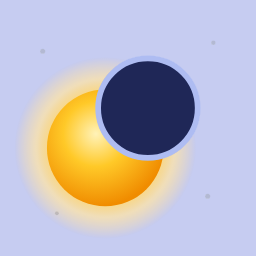
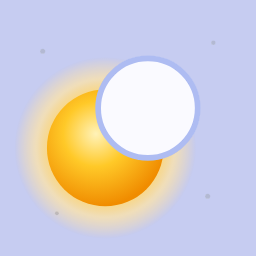
Eclipse: cores das regiões no tema claro com mais contraste (matizes bem separados, luminosidades alternadas); lua clara no ícone do tema claro
Claude-Session: https://claude.ai/code/session_01VuAEu1YUHS9jy2dRVeSzM2

Changed region(s): [[0.375, 0.2188, 0.7812, 0.625]]

diff --git a/eclipse/index.html b/eclipse/index.html
@@ -10,8 +10,8 @@
 <meta name="apple-mobile-web-app-title" content="Eclipse">
 <title>ECLIPSE — um sol e uma lua em cada linha</title>
 <link rel="icon" type="image/png" href="icon.png">
-<script src="../comum/tema.js?v=80"></script>
-<script src="../comum/cabecalho.js?v=80"></script>
+<script src="../comum/tema.js?v=81"></script>
+<script src="../comum/cabecalho.js?v=81"></script>
 <link rel="apple-touch-icon" href="icon.png">
 <link rel="preconnect" href="https://fonts.googleapis.com">
 <link rel="preconnect" href="https://fonts.gstatic.com" crossorigin>
@@ -38,8 +38,9 @@
     --bad: #e5484d;
     --accent: #4f4fd0;
     --good: #3fa24c;
-    --r0: #f6c1b9; --r1: #f9dd8f; --r2: #c6e5aa; --r3: #b2d2f5; --r4: #d4c5f6;
-    --r5: #f4c2de; --r6: #a9e4cd; --r7: #f7cca2; --r8: #dce0ea; --r9: #e8d7ae;
+    /* regiões (claro): matizes bem separados e luminosidades alternadas, para vizinhas nunca se confundirem */
+    --r0: #f3a097; --r1: #f7dc74; --r2: #b0da83; --r3: #8fc1f0; --r4: #c4aef6;
+    --r5: #f5b4d8; --r6: #7fd4c1; --r7: #f8b37a; --r8: #cfd3de; --r9: #cbc27e;
     --shadow: 0 1px 2px rgba(20,24,40,.06), 0 6px 18px rgba(20,24,40,.07);
     --on-accent: #fff;
   }
@@ -275,7 +276,7 @@
   }
 
 </style>
-<link rel="stylesheet" href="../comum/cabecalho.css?v=80">
+<link rel="stylesheet" href="../comum/cabecalho.css?v=81">
 <style>
   /* cores do cabeçalho comum, a partir das cores deste jogo */
   :root { --fim-btn-bg: var(--accent); --fim-btn-ink: var(--on-accent); --mpad: 22px; --gh-ink: var(--ink); --gh-muted: var(--muted); --gh-surface: var(--surface); --gh-track: var(--surface-2); --gh-accent: var(--accent); --gh-line: var(--line); }
@@ -314,7 +315,7 @@
 
 <header class="gh">
   <a class="gh-back" href="../" aria-label="Voltar aos Jogos do Dia" title="Jogos do Dia"><svg viewBox="0 0 24 24" width="22" height="22" fill="none" stroke="currentColor" stroke-width="2.6" stroke-linecap="round" stroke-linejoin="round" aria-hidden="true"><path d="M15 5l-7 7 7 7"/></svg></a>
-  <a class="gh-brand" href="./" aria-label="Eclipse — recarregar"><img src="icon-claro.png?v=10" data-escuro="icon-escuro.png?v=10" alt=""><b>ECLIPSE</b></a>
+  <a class="gh-brand" href="./" aria-label="Eclipse — recarregar"><img src="icon-claro.png?v=11" data-escuro="icon-escuro.png?v=10" alt=""><b>ECLIPSE</b></a>
   <div class="gh-pill" id="timer" aria-label="Tempo">0:00</div>
   <button class="gh-btn" id="helpBtn" aria-label="Como jogar" title="Como jogar"><svg viewBox="0 0 24 24" aria-hidden="true" fill="none" stroke="currentColor" stroke-width="2.4" stroke-linecap="round" stroke-linejoin="round"><circle cx="12" cy="12" r="9"/><path d="M9.3 9.3a2.8 2.8 0 0 1 5.4 1c0 1.9-2.7 2.5-2.7 4"/><path d="M12 17.6h.01"/></svg></button>
 </header>
@@ -879,7 +880,7 @@
   $("helpBtn").addEventListener("click", () => openModal("helpOverlay"));
 })();
 </script>
-<script src="../comum/catalogo.js?v=80"></script>
-<script src="../comum/proximo.js?v=80" data-jogo="eclipse"></script>
+<script src="../comum/catalogo.js?v=81"></script>
+<script src="../comum/proximo.js?v=81" data-jogo="eclipse"></script>
 </body>
 </html>

diff --git a/comum/catalogo.js b/comum/catalogo.js
@@ -27,7 +27,7 @@ const BASE_GAMES = [
   { id: "quinhentos", name: "Quinhentos", emoji: "5⃣", desc: "Word500 em português",          url: "quinhentos/", icon: "quinhentos/icon-claro.png?v=10", iconDark: "quinhentos/icon-escuro.png?v=10", iconFull: true, cor: ["#c6f1da", "#163b28", "#203c2d", "#ebf4ef"] },
   { id: "foximax",    name: "Foximax",    emoji: "🦊", desc: "foximax.com",                   url: "https://foximax.com/" },
   { id: "linkedin",   name: "LinkedIn",   emoji: "💼", desc: "Queens, Tango, Zip, Pinpoint…", url: "https://www.linkedin.com/games/", app: true },
-  { id: "eclipse",    name: "Eclipse",    emoji: "🌗", desc: "Um sol e uma lua em cada linha", url: "eclipse/", icon: "eclipse/icon-claro.png?v=10", iconDark: "eclipse/icon-escuro.png?v=10", iconFull: true, cor: ["#c6ccf1", "#161b3b", "#20243c", "#ebecf4"] },
+  { id: "eclipse",    name: "Eclipse",    emoji: "🌗", desc: "Um sol e uma lua em cada linha", url: "eclipse/", icon: "eclipse/icon-claro.png?v=11", iconDark: "eclipse/icon-escuro.png?v=10", iconFull: true, cor: ["#c6ccf1", "#161b3b", "#20243c", "#ebecf4"] },
   { id: "novelo",     name: "Novelo",     emoji: "🧶", desc: "Um fio por todas as casas",     url: "novelo/", icon: "novelo/icon.png?v=10", iconDark: "novelo/icon-escuro.png?v=10", iconFull: true, cor: ["#f1c6c9", "#3b1619", "#3c2022", "#f4ebec"] },
   { id: "retalhos",   name: "Retalhos",   emoji: "🧵", desc: "Uma colcha de retângulos",      url: "retalhos/", icon: "retalhos/icon.png?v=10", iconDark: "retalhos/icon-escuro.png?v=10", iconFull: true, cor: ["#c6e5f1", "#16313b", "#20343c", "#ebf2f4"] },
   { id: "pingado",    name: "Pingado",    emoji: "☕", desc: "Café e leite em equilíbrio",    url: "pingado/", icon: "pingado/icon.png?v=10", iconDark: "pingado/icon-escuro.png?v=10", iconFull: true, cor: ["#e9c3aa", "#3b2516", "#3c2b20", "#f4efeb"] },

diff --git a/quinhentos/index.html b/quinhentos/index.html
@@ -9,8 +9,8 @@
 <meta name="apple-mobile-web-app-capable" content="yes">
 <meta name="apple-mobile-web-app-status-bar-style" content="black-translucent">
 <meta name="apple-mobile-web-app-title" content="Quinhentos">
-<script src="../comum/tema.js?v=80"></script>
-<script src="../comum/cabecalho.js?v=80"></script>
+<script src="../comum/tema.js?v=81"></script>
+<script src="../comum/cabecalho.js?v=81"></script>
 <link rel="preconnect" href="https://fonts.googleapis.com">
 <link rel="preconnect" href="https://fonts.gstatic.com" crossorigin>
 <link href="https://fonts.googleapis.com/css2?family=Noto+Sans:wdth,wght@62.5..100,400..900&display=swap" rel="stylesheet">
@@ -351,7 +351,7 @@ header{
 #btn-stats[hidden], #btn-settings[hidden]{display:none !important;}
 </style>
 
-<link rel="stylesheet" href="../comum/cabecalho.css?v=80">
+<link rel="stylesheet" href="../comum/cabecalho.css?v=81">
 <style>
   /* cores do cabeçalho comum, a partir das cores deste jogo */
   :root { --fim-btn-bg: var(--accent); --fim-btn-ink: var(--accent-ink); --gh-fim-ink: var(--accent-ink); --mpad: 22px; --gh-ink: var(--ink); --gh-muted: var(--ink-dim); --gh-surface: var(--panel); --gh-track: var(--panel-2); --gh-accent: var(--accent); --gh-line: var(--line); }
@@ -1326,7 +1326,7 @@ header{
     fn => { new MutationObserver(fn).observe(document.getElementById("mode-switch"), { attributes: true, attributeFilter: ["class"] }); window.addEventListener("quinhentos-livre", fn); },
     window.quinhentosLivre);
 </script>
-<script src="../comum/catalogo.js?v=80"></script>
-<script src="../comum/proximo.js?v=80" data-jogo="quinhentos"></script>
+<script src="../comum/catalogo.js?v=81"></script>
+<script src="../comum/proximo.js?v=81" data-jogo="quinhentos"></script>
 </body>
 </html>

diff --git a/misto/index.html b/misto/index.html
@@ -2,8 +2,8 @@
 <html lang="pt-BR">
 <head>
 <meta charset="UTF-8">
-<script src="../comum/tema.js?v=80"></script>
-<script src="../comum/cabecalho.js?v=80"></script>
+<script src="../comum/tema.js?v=81"></script>
+<script src="../comum/cabecalho.js?v=81"></script>
 <meta name="viewport" content="width=device-width, initial-scale=1, maximum-scale=1, user-scalable=no, viewport-fit=cover">
 <meta name="apple-mobile-web-app-capable" content="yes">
 <meta name="apple-mobile-web-app-status-bar-style" content="black-translucent">
@@ -400,7 +400,7 @@
   #help-btn svg{display:block;margin:auto;}
 </style>
 
-<link rel="stylesheet" href="../comum/cabecalho.css?v=80">
+<link rel="stylesheet" href="../comum/cabecalho.css?v=81">
 <style>
   /* cores do cabeçalho comum, a partir das cores deste jogo */
   :root { --fim-btn-bg: var(--accent); --fim-btn-ink: var(--ink); --fim-btn-border: var(--stroke) solid var(--ink); --gh-fim-ink: var(--ink); --gh-fim-border: var(--stroke) solid var(--ink); --gh-fim-border-lose: var(--stroke) solid var(--ink); --mpad: 18px; --gh-ink: var(--text); --gh-muted: var(--text-dim); --gh-surface: var(--card); --gh-track: var(--tile-ghost); --gh-accent: var(--accent); --gh-line: color-mix(in srgb, var(--text) 22%, transparent); }
@@ -1201,7 +1201,7 @@
     fn => { document.getElementById("practice-toggle").addEventListener("change", () => setTimeout(fn)); window.addEventListener("sanduba-livre", fn); },
     window.sandubaLivre);
 </script>
-<script src="../comum/catalogo.js?v=80"></script>
-<script src="../comum/proximo.js?v=80" data-jogo="sanduba"></script>
+<script src="../comum/catalogo.js?v=81"></script>
+<script src="../comum/proximo.js?v=81" data-jogo="sanduba"></script>
 </body>
 </html>

diff --git a/novelo/index.html b/novelo/index.html
@@ -10,8 +10,8 @@
 <meta name="apple-mobile-web-app-title" content="Novelo">
 <title>NOVELO — um fio por todas as casas</title>
 <link rel="icon" type="image/png" href="icon.png">
-<script src="../comum/tema.js?v=80"></script>
-<script src="../comum/cabecalho.js?v=80"></script>
+<script src="../comum/tema.js?v=81"></script>
+<script src="../comum/cabecalho.js?v=81"></script>
 <link rel="apple-touch-icon" href="icon.png">
 <link rel="preconnect" href="https://fonts.googleapis.com">
 <link rel="preconnect" href="https://fonts.gstatic.com" crossorigin>
@@ -217,7 +217,7 @@
     background: var(--accent); color: var(--on-accent); font: inherit; font-weight: 700; font-size: .95rem;
   }
 </style>
-<link rel="stylesheet" href="../comum/cabecalho.css?v=80">
+<link rel="stylesheet" href="../comum/cabecalho.css?v=81">
 <style>
   :root { --fim-btn-bg: var(--accent); --fim-btn-ink: var(--on-accent); --mpad: 22px; --gh-ink: var(--ink); --gh-muted: var(--muted); --gh-surface: var(--surface); --gh-track: var(--surface-2); --gh-accent: var(--accent); --gh-line: var(--line); }
 </style>
@@ -773,7 +773,7 @@
   demo("demoB", [0, 3, 6, 7, 4, 1, 2, 5, 8], [[0, 1], [8, 2]], "M115 27L115 203");
 })();
 </script>
-<script src="../comum/catalogo.js?v=80"></script>
-<script src="../comum/proximo.js?v=80" data-jogo="novelo"></script>
+<script src="../comum/catalogo.js?v=81"></script>
+<script src="../comum/proximo.js?v=81" data-jogo="novelo"></script>
 </body>
 </html>

diff --git a/retalhos/index.html b/retalhos/index.html
@@ -10,8 +10,8 @@
 <meta name="apple-mobile-web-app-title" content="Retalhos">
 <title>RETALHOS — uma colcha de retângulos</title>
 <link rel="icon" type="image/png" href="icon.png">
-<script src="../comum/tema.js?v=80"></script>
-<script src="../comum/cabecalho.js?v=80"></script>
+<script src="../comum/tema.js?v=81"></script>
+<script src="../comum/cabecalho.js?v=81"></script>
 <link rel="apple-touch-icon" href="icon.png">
 <link rel="preconnect" href="https://fonts.googleapis.com">
 <link rel="preconnect" href="https://fonts.gstatic.com" crossorigin>
@@ -226,7 +226,7 @@
     background: var(--accent); color: var(--on-accent); font: inherit; font-weight: 700; font-size: .95rem;
   }
 </style>
-<link rel="stylesheet" href="../comum/cabecalho.css?v=80">
+<link rel="stylesheet" href="../comum/cabecalho.css?v=81">
 <style>
   :root { --fim-btn-bg: var(--accent); --fim-btn-ink: var(--on-accent); --mpad: 22px; --gh-ink: var(--ink); --gh-muted: var(--muted); --gh-surface: var(--surface); --gh-track: var(--surface-2); --gh-accent: var(--accent); --gh-line: var(--line); }
 </style>
@@ -727,7 +727,7 @@
   demo("demoB", true);
 })();
 </script>
-<script src="../comum/catalogo.js?v=80"></script>
-<script src="../comum/proximo.js?v=80" data-jogo="retalhos"></script>
+<script src="../comum/catalogo.js?v=81"></script>
+<script src="../comum/proximo.js?v=81" data-jogo="retalhos"></script>
 </body>
 </html>

diff --git a/pingado/index.html b/pingado/index.html
@@ -10,8 +10,8 @@
 <meta name="apple-mobile-web-app-title" content="Pingado">
 <title>PINGADO — café e leite em equilíbrio</title>
 <link rel="icon" type="image/png" href="icon.png">
-<script src="../comum/tema.js?v=80"></script>
-<script src="../comum/cabecalho.js?v=80"></script>
+<script src="../comum/tema.js?v=81"></script>
+<script src="../comum/cabecalho.js?v=81"></script>
 <link rel="apple-touch-icon" href="icon.png">
 <link rel="preconnect" href="https://fonts.googleapis.com">
 <link rel="preconnect" href="https://fonts.gstatic.com" crossorigin>
@@ -203,7 +203,7 @@
     background: var(--accent); color: var(--on-accent); font: inherit; font-weight: 700; font-size: .95rem;
   }
 </style>
-<link rel="stylesheet" href="../comum/cabecalho.css?v=80">
+<link rel="stylesheet" href="../comum/cabecalho.css?v=81">
 <style>
   :root { --fim-btn-bg: var(--accent); --fim-btn-ink: var(--on-accent); --mpad: 22px; --gh-ink: var(--ink); --gh-muted: var(--muted); --gh-surface: var(--surface); --gh-track: var(--surface-2); --gh-accent: var(--accent); --gh-line: var(--line); }
 </style>
@@ -658,7 +658,7 @@
   demo("demoB", true);
 })();
 </script>
-<script src="../comum/catalogo.js?v=80"></script>
-<script src="../comum/proximo.js?v=80" data-jogo="pingado"></script>
+<script src="../comum/catalogo.js?v=81"></script>
+<script src="../comum/proximo.js?v=81" data-jogo="pingado"></script>
 </body>
 </html>

diff --git a/index.html b/index.html
@@ -12,8 +12,8 @@
 <link rel="icon" id="favicon" type="image/png" href="icon-192.png?v=6">
 <link rel="apple-touch-icon" href="apple-touch-icon.png?v=6">
 <link rel="manifest" href="manifest.json">
-<script src="comum/tema.js?v=80"></script>
-<script src="comum/catalogo.js?v=80"></script>
+<script src="comum/tema.js?v=81"></script>
+<script src="comum/catalogo.js?v=81"></script>
 <link rel="preconnect" href="https://fonts.googleapis.com">
 <link rel="preconnect" href="https://fonts.gstatic.com" crossorigin>
 <link href="https://fonts.googleapis.com/css2?family=Noto+Sans:wdth,wght@62.5..100,400..900&display=swap" rel="stylesheet">

diff --git a/sw.js b/sw.js
@@ -1,6 +1,6 @@
 // Service worker do Jogos do Dia.
 // Deixa o painel instalável e funcionando offline (sempre tenta a versão mais nova primeiro).
-const CACHE = "jogos-do-dia-v84";
+const CACHE = "jogos-do-dia-v85";
 const FILES = ["./", "./index.html", "./manifest.json", "./icon-192.png", "./icon-512.png", "./apple-touch-icon.png"];
 
 self.addEventListener("install", e => {
